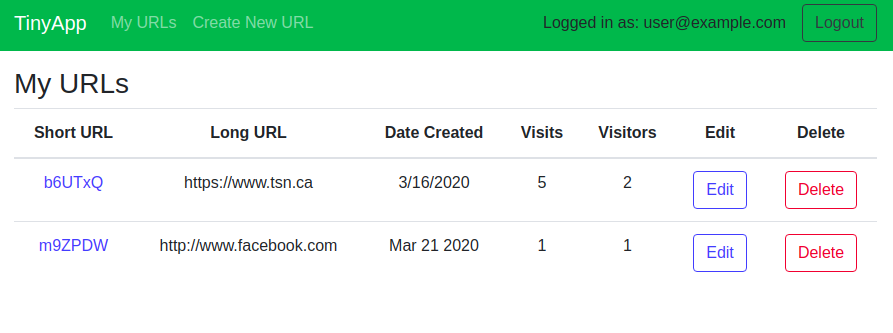
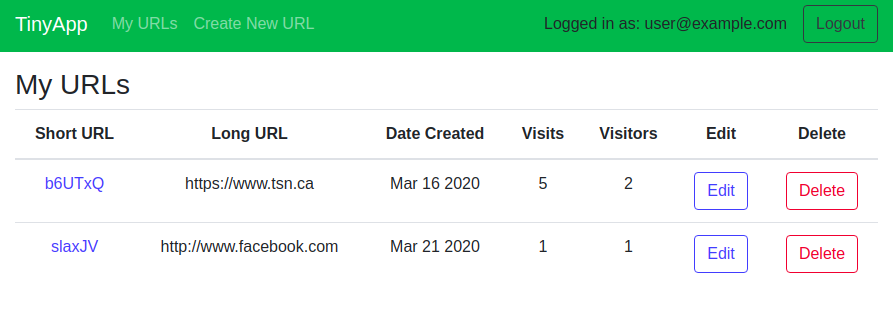
updated date on example same formatting

diff --git a/global_variables.js b/global_variables.js
@@ -23,8 +23,8 @@ const users = {
 }
 
 const urlDatabase = {
-  b6UTxQ: { longURL: "https://www.tsn.ca", userID: "userRandomID", date: "3/16/2020", visits: 5, visitors: ["userRandomID", "user2RandomID"] },
-  i3BoGr: { longURL: "https://www.google.ca", userID: "user2RandomID", date: "3/16/2020", visits: 10, visitors: ["user2RandomID"]}
+  b6UTxQ: { longURL: "https://www.tsn.ca", userID: "userRandomID", date: "Mar 16 2020", visits: 5, visitors: ["userRandomID", "user2RandomID"] },
+  i3BoGr: { longURL: "https://www.google.ca", userID: "user2RandomID", date: "Mar 16 2020", visits: 10, visitors: ["user2RandomID"]}
 };
 
 module.exports = { PORT, numChar, numUserID, users, urlDatabase };

diff --git a/README.md b/README.md
@@ -4,8 +4,14 @@ TinyApp is a full stack web application built with Node and Express that allows 
 
 ## Final Product
 
-![""](#)
-!["screenshot description"](#)
+![""](https://github.com/Linh095/tinyapp/blob/master/docs/homepage.png)
+!["screenshot description"](https://github.com/Linh095/tinyapp/blob/master/docs/create_shortUrl.png)
+!["screenshot description"](https://github.com/Linh095/tinyapp/blob/master/docs/edit_shortUrl.png)
+!["screenshot description"](https://github.com/Linh095/tinyapp/blob/master/docs/shortURL_not_owner.png)
+!["screenshot description"]()
+!["screenshot description"]()
+
+
 
 ## Dependencies
 
